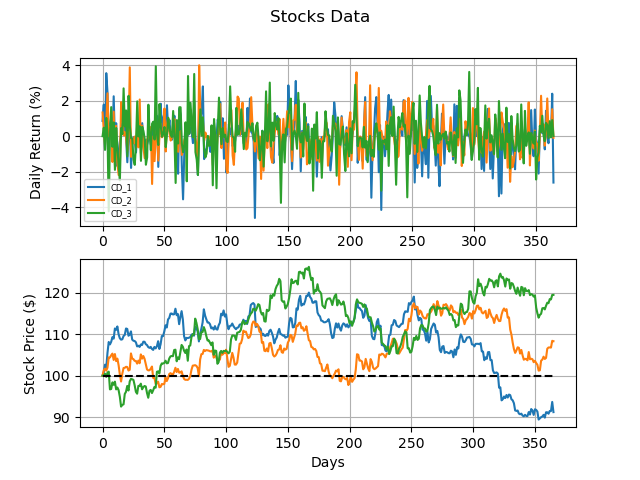
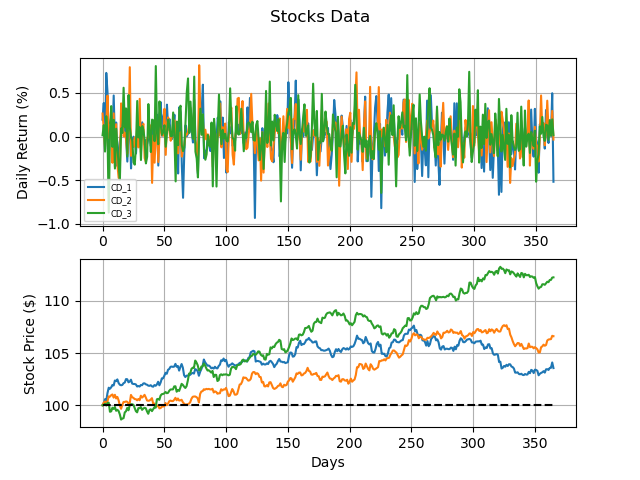
Descriptive Analysis with 365*10 days of data

diff --git a/src.py b/src.py
@@ -14,14 +14,28 @@ def get_mean_of_df_column(df_column):
 def get_standard_deviation_of_df_column(df_column):
     return np.std(df_column)
 
+def calculete_overall_portfolio_return(df, stock_names, weights):
+    overall_portfolio_return = 0
+    for i, stock_name in enumerate(stock_names):
+        overall_portfolio_return += weights[i] * df[stock_name].mean()
+    return overall_portfolio_return
+
+def calculete_portfolio_standard_deviation(df, stock_names, weights):
+    portfolio_standard_deviation = 0
+    for i, stock_name_i in enumerate(stock_names):
+        for j, stock_name_j in enumerate(stock_names):
+            portfolio_standard_deviation += weights[i] * weights[j] * get_standard_deviation_of_df_column(df[stock_name_i]) * get_standard_deviation_of_df_column(df[stock_name_j]) * np.corrcoef([df[stock_name_i], df[stock_name_j]])[0][1]
+    portfolio_standard_deviation = np.sqrt(portfolio_standard_deviation)
+    return portfolio_standard_deviation
+
 def get_daily_return_value(df, stock_price, stock_name):
     # GBM (Geometric Brownian Motion) + random volatility
-    volatility = np.random.uniform(low=0.001, high=0.02)
+    volatility = np.random.uniform(low=0.0004, high=0.004)
     # Correlation between stock and market (10.7)=10*(1+i)^365 for 7% a.a.
     returns = np.random.normal(loc=0.0001854, scale=volatility, size=1)
     # Correlation between same market sector stocks
     if '_1' not in stock_name:
-        if np.random.random() < 0.9: # chance of 90% to update returns
+        if np.random.random() < 0.90: # chance of 90% to update returns
             if df[stock_name[:-2] + '_1'] > 0: # positive daily return
                     returns = abs(returns)
             else:
@@ -87,10 +101,17 @@ if __name__ == "__main__":
     df = df.drop(['Placeholder'], axis=1)
     # print(df)
 
-    print('\nMean:')
-    for column in df.columns:
-        print(column, df[column].mean())
+    weights = [0.1]*10
+    overall_portfolio_return = calculete_overall_portfolio_return(df, stock_names, weights)
+    print(f'\nOverall Portfolio Return: {overall_portfolio_return} %')
     
+    portfolio_standard_deviation = calculete_portfolio_standard_deviation(df, stock_names, weights)
+    print(f'\nPortfolio Standard Deviation: {portfolio_standard_deviation}\n')
+
+    # print(np.corrcoef([df['TECH_1'], df['TECH_2']])[0][1])
+    # print(np.corrcoef([df['CD_1'], df['CD_2']])[0][1])
+    # print(np.corrcoef([df['CD_1'], df['CD_3']])[0][1])
+
     plot_graph_from_dataframe(df, days_of_data, 'Sample')
     for market_sector in ['CD', 'CS', 'TECH', 'UTILITIES']:
         plot_graph_from_dataframe(df[[stock for stock in df.columns if market_sector in stock]], days_of_data, market_sector)
